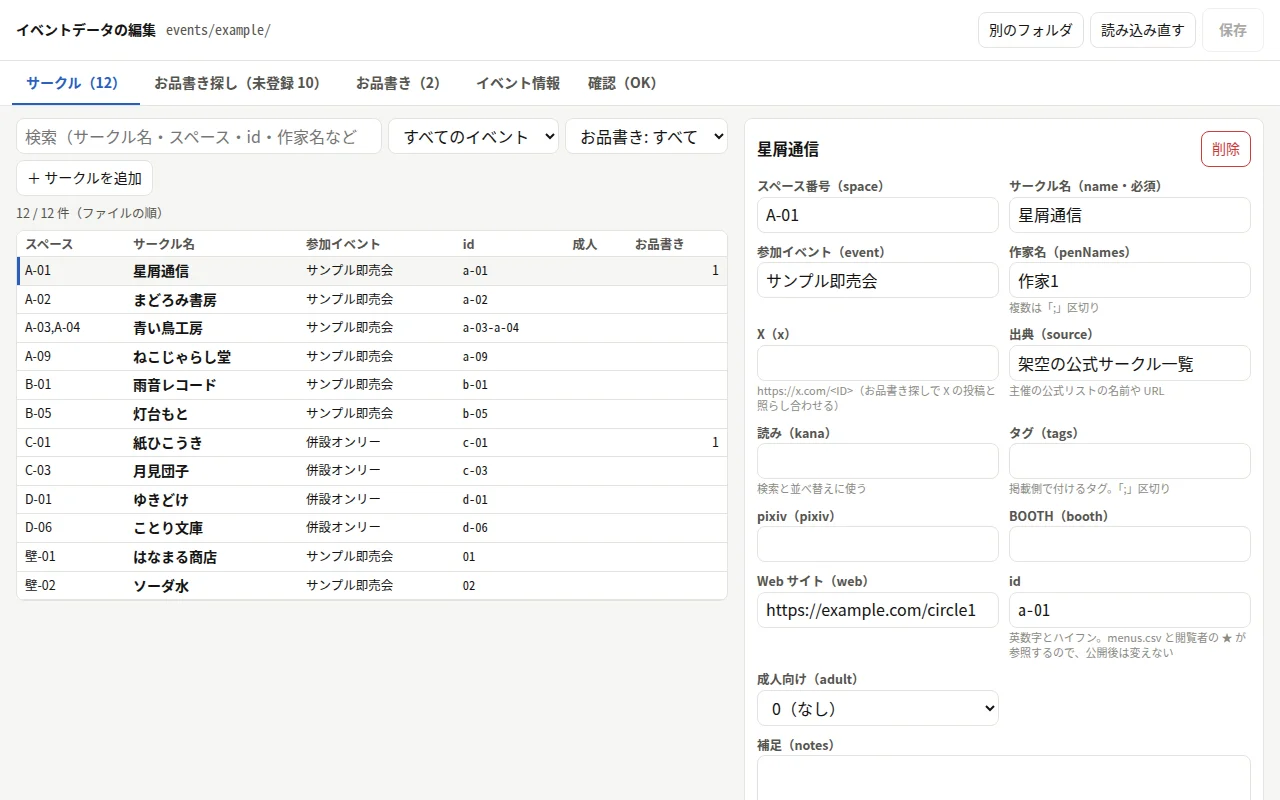
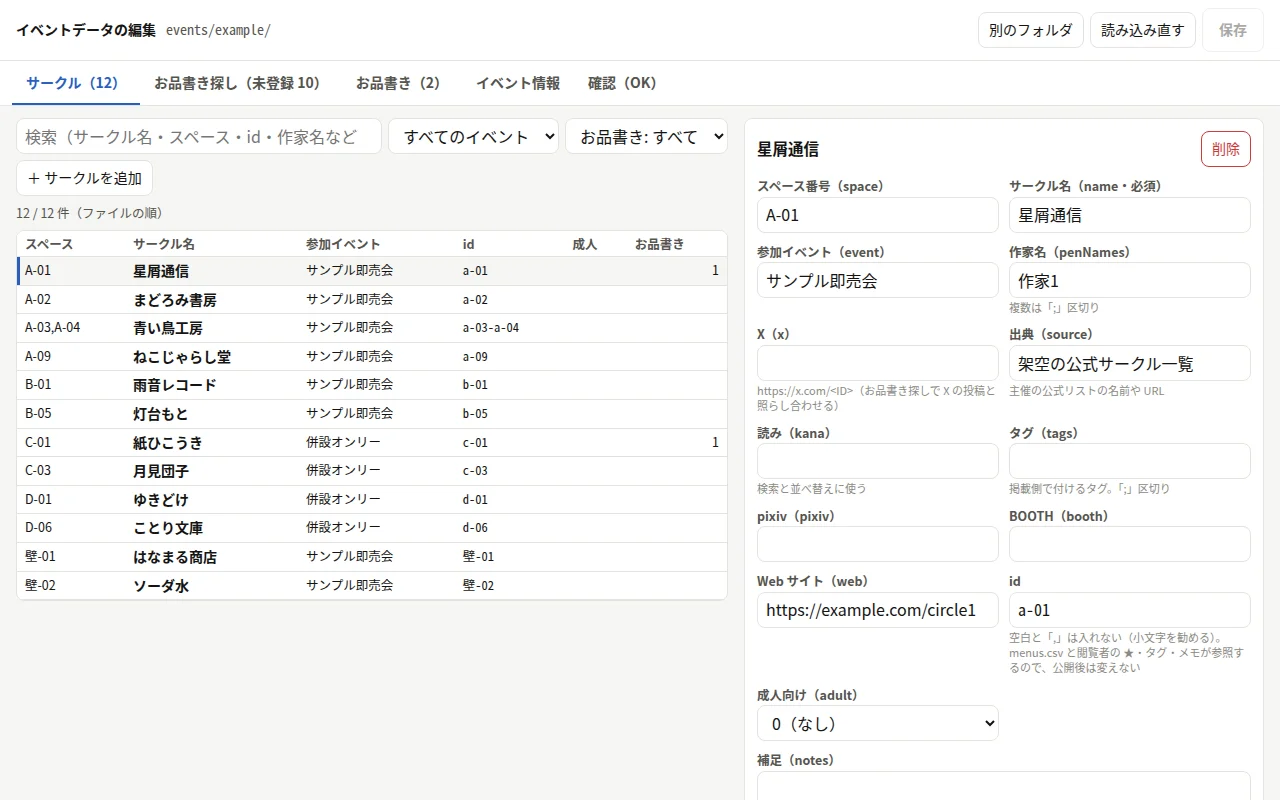
Use the current id rule in the example event, docs and editor hint
- events/example: the ids of 壁-01 and 壁-02 are 壁-01 and 壁-02, as the
  rule derives them (circles.json regenerated; menus.csv does not refer
  to them).
- The editor's id hint no longer says ids are letters, digits and
  hyphens; the editor screenshot shows the new ids and hint.
- getting-started.md and event-data.md give a kanji example and point
  to the id section.

diff --git a/src/editor/CircleForm.tsx b/src/editor/CircleForm.tsx
@@ -291,7 +291,7 @@ export default function CircleForm({ doc, circle, issues, edit: editDoc, onRemov
         <label>
           <span>id</span>
           <DraftInput value={v.id} onCommit={(s) => commitIdField('id', s)} placeholder={id ? `空欄なら ${id}` : '空欄ならスペース番号から作る'} className="ed-mono" />
-          <small>英数字とハイフン。menus.csv と閲覧者の ★ が参照するので、公開後は変えない</small>
+          <small>空白と「,」は入れない（小文字を勧める）。menus.csv と閲覧者の ★・タグ・メモが参照するので、公開後は変えない</small>
         </label>
         <label>
           <span>成人向け（adult）</span>

diff --git a/tools/caimawaru/importing.py b/tools/caimawaru/importing.py
@@ -158,7 +158,7 @@ def _combine_sources(imported):
 def _keep_existing_ids(combined, existing):
     """スペース番号から作った id が circles.csv にないとき、同じスペース番号の行が1つだけあれば、その行の id を使う。
 
-    id は ★・タグ・メモと menus.csv が参照するので、一度書いた id は、作り方の規則が変わっても変えない。
+    id は ★・タグ・メモと menus.csv が参照するので、circles.csv に書いた id は、スペース番号から作る id と違っても変えない。
     combined の行の id を書き換え、説明のリストを返す。
     """
     taken = {circle.row["id"] for circle in combined}

diff --git a/docs/event-data.md b/docs/event-data.md
@@ -46,7 +46,7 @@ events/<eventId>/sources/…   ──取り込み──▶  events/<eventId>/eve
 
 | 列 | 必須 | 内容 |
 |---|---|---|
-| `id` | | サークルの識別子。空欄ならスペース番号から作る（`A-10` → `a-10`）。menus.csv と閲覧者の ★・タグ・メモが参照するので、公開後は変えない（下の「サークルの id」） |
+| `id` | | サークルの識別子。空欄ならスペース番号から作る（`A-10` → `a-10`、`壁-01` → `壁-01`）。menus.csv と閲覧者の ★・タグ・メモが参照するので、公開後は変えない（下の「サークルの id」） |
 | `space` | | スペース番号。複数なら `A-01,A-02`。配置図があるイベントでは配置図に存在する番号であること |
 | `event` | | 参加イベント名（合同開催のどれか） |
 | `name` | ✓ | サークル名 |
@@ -111,7 +111,7 @@ CLI（`import`・`menu`・`circle`・`menus`）とページ側の編集画面は
 | 上の表の列名が2回以上ある | `circles.csv: name 列が2つあります。最初の列を使います` |
 | 値が見出しより多い行 | `menus.csv: 3行目は見出しより列が多いため、コメント行にしました`（行番号はファイルの行） |
 
-`id` 列がない見出しは警告しない（circles.csv の id はいままでどおりスペース番号から作る）。
+`id` 列がない見出しは警告しない（circles.csv の id はすべてスペース番号から作る）。
 
 ### 保存する形
 

diff --git a/docs/getting-started.md b/docs/getting-started.md
@@ -100,7 +100,7 @@ uv run caimawaru import <eventId> --fetch
 `uv run caimawaru circle add <eventId> space=A-10 name="…" event="…" source="…" --dry-run` で登録します（[cli.md](cli.md#イベントデータを確かめる編集する)）。
 
 - `source` 列に、その情報をどこで確かめたか（主催の告知など）を書く
-- サークルの `id` はスペース番号から作られる。公開後に変えない（利用者の ★ が外れる）
+- サークルの `id` は、id 列が空ならスペース番号から作る（`A-10` → `a-10`、`壁-01` → `壁-01`。規則は [event-data.md の「サークルの id」](event-data.md#サークルの-id)）。公開後に変えない（利用者の ★・タグ・メモが外れる）
 
 ### X アカウントを補う
 
